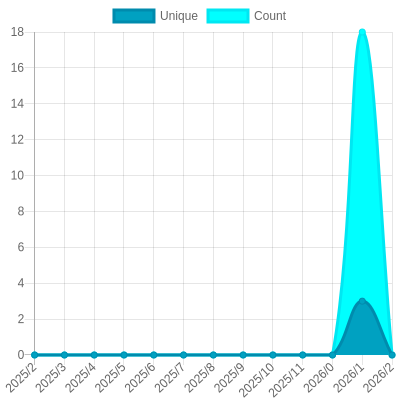
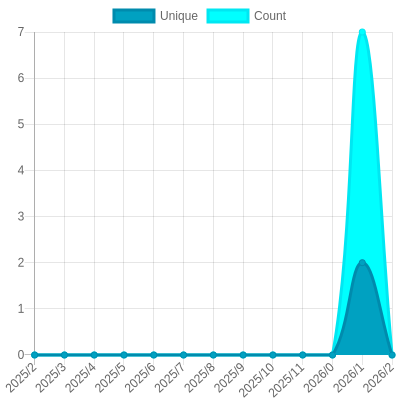
Update views

diff --git a/readme/933584443/year.md b/readme/933584443/year.md
@@ -34,10 +34,10 @@
 			<code>2025/2/1</code>
 		</td>
 		<td>
-			<code>3</code>
+			<code>2</code>
 		</td>
 		<td>
-			<code>18</code>
+			<code>7</code>
 		</td>
 	</tr>
 	<tr>
@@ -164,7 +164,7 @@
 </table>
 
 </details>
-<small><i>Last updated on 2025/3/2 6:16 AM UTC</i></small>
+<small><i>Last updated on 2025/3/2 12:19 PM UTC</i></small>
 
 ## ✂Copy and 📋 Paste
 ### SVG Badge

diff --git a/README.md b/README.md
@@ -133,7 +133,7 @@ The project created and maintained by [gayanvoice](https://github.com/gayanvoice
 	</tr>
 </table>
 
-<small><i>Last updated on 2025/3/2 6:16 AM UTC</i></small>
+<small><i>Last updated on 2025/3/2 12:20 PM UTC</i></small>
 
 ## ✂Copy and 📋 Paste
 ### Total Views Badge

diff --git a/readme/929886273/year.md b/readme/929886273/year.md
@@ -164,7 +164,7 @@
 </table>
 
 </details>
-<small><i>Last updated on 2025/3/2 6:16 AM UTC</i></small>
+<small><i>Last updated on 2025/3/2 12:19 PM UTC</i></small>
 
 ## ✂Copy and 📋 Paste
 ### SVG Badge

diff --git a/readme/930574550/year.md b/readme/930574550/year.md
@@ -164,7 +164,7 @@
 </table>
 
 </details>
-<small><i>Last updated on 2025/3/2 6:16 AM UTC</i></small>
+<small><i>Last updated on 2025/3/2 12:19 PM UTC</i></small>
 
 ## ✂Copy and 📋 Paste
 ### SVG Badge

diff --git a/readme/933424964/year.md b/readme/933424964/year.md
@@ -164,7 +164,7 @@
 </table>
 
 </details>
-<small><i>Last updated on 2025/3/2 6:15 AM UTC</i></small>
+<small><i>Last updated on 2025/3/2 12:19 PM UTC</i></small>
 
 ## ✂Copy and 📋 Paste
 ### SVG Badge

diff --git a/readme/933435537/year.md b/readme/933435537/year.md
@@ -164,7 +164,7 @@
 </table>
 
 </details>
-<small><i>Last updated on 2025/3/2 6:16 AM UTC</i></small>
+<small><i>Last updated on 2025/3/2 12:19 PM UTC</i></small>
 
 ## ✂Copy and 📋 Paste
 ### SVG Badge

diff --git a/readme/933839601/year.md b/readme/933839601/year.md
@@ -164,7 +164,7 @@
 </table>
 
 </details>
-<small><i>Last updated on 2025/3/2 6:16 AM UTC</i></small>
+<small><i>Last updated on 2025/3/2 12:19 PM UTC</i></small>
 
 ## ✂Copy and 📋 Paste
 ### SVG Badge

diff --git a/readme/933921274/year.md b/readme/933921274/year.md
@@ -164,7 +164,7 @@
 </table>
 
 </details>
-<small><i>Last updated on 2025/3/2 6:15 AM UTC</i></small>
+<small><i>Last updated on 2025/3/2 12:19 PM UTC</i></small>
 
 ## ✂Copy and 📋 Paste
 ### SVG Badge
